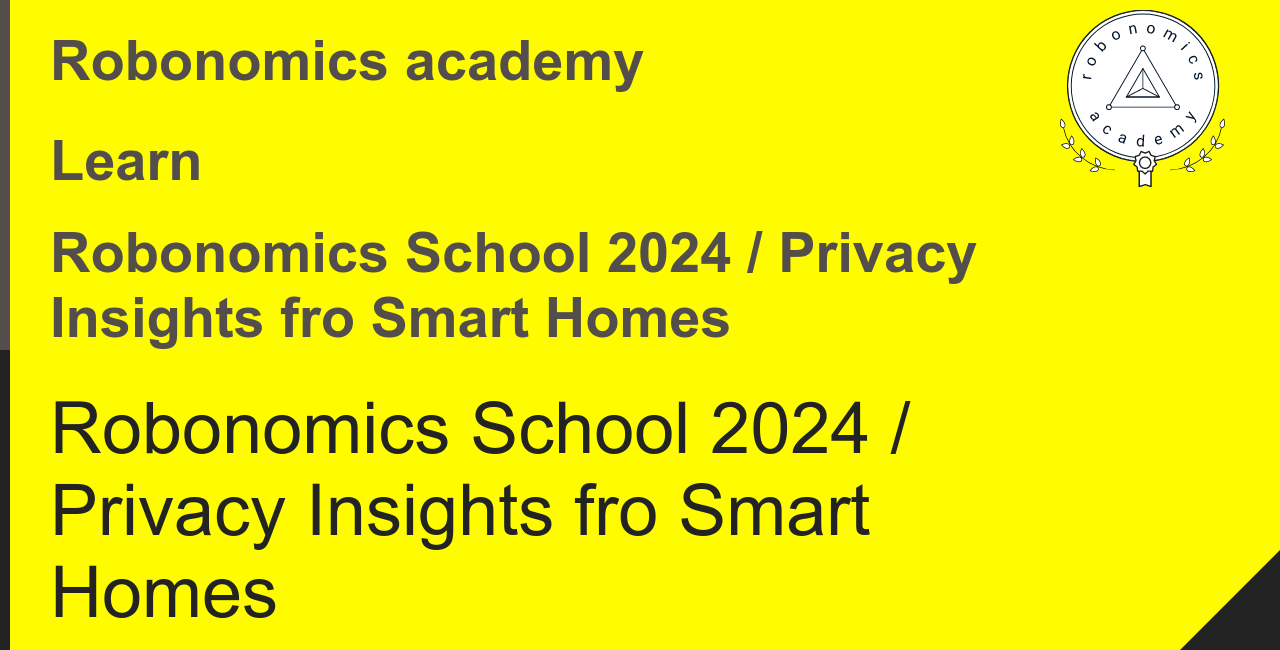
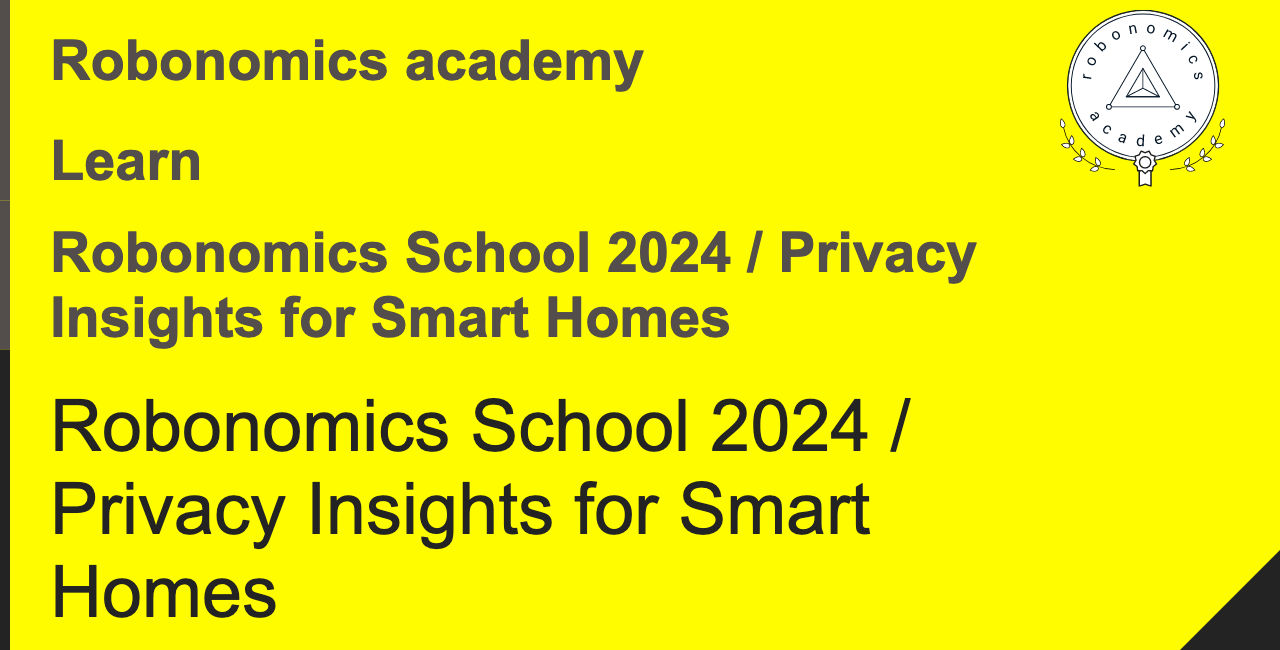
Add School 2024 Cyprus Relocant Manual

diff --git a/courses/ru/learn/school-2024-cyprus-relocant-manual/overview.md b/courses/ru/learn/school-2024-cyprus-relocant-manual/overview.md
@@ -1,0 +1,122 @@
+---
+title: "Robonomics School 2024 / Курс релоканта на Кипр: Умный дом"
+lastUpdate: 
+description: "Курс релоканта на Кипр: Умный дом"
+metaOptions: [Learn, "Robonomics School 2024 / Курс релоканта на Кипр: Умный дом"]
+defaultName: "Robonomics School 2024 / Cyprus Relocant Manual: Smart Home"
+---
+
+<LessonImages imageClasses="mb"  src='school-2024-cyprus-relocant-manual/Setup_SmartHome-Academy.jpg' alt="Cyprus Relocant Manual Cover" />
+
+Изменение страны проживания всегда приносит не только новые возможности, но и вызовы. Так случилось, что в моем случае новой страной стал Кипр, куда я приехал строить компанию. Последние 10 лет до переезда я жил в большом городе, где успел привыкнуть к определенным благам в виде центрального отопления от города, горячего водоснабжения, дешевому электричеству. На Кипре каждый дом и каждая квартира гораздо более автономный в плане жизнеобеспечения, но заботы о поддержании комфортной жизни ложатся на владельца. Взять, например, горячую воду. В холодные месяцы приходится самостоятельно включать бойлер, чтобы её нагреть. Квартиру тоже нужно отапливать самостоятельно. Зимой включаем/выключаем термоодеяло и бойлер, а летом кондиционер и средство от комаров. Это требует не только времени и энергии, но и денег.
+
+Моя первая зима на Кипре вылилась в астрономические счета за электричество. Это был серьезный удар по моему бюджету. Одно из возможных решений: изменить свои привычки и подстроиться под новые условия. Но после переезда у вас и так будет достаточно забот. Будучи инженером, я начал искать решения, которые помогли бы мне контролировать расходы и сделать жизнь комфортнее, и хочу поделиться с вами опытом.
+
+## Выбор оборудования
+
+Первое с чего хочется начать - выбор экосистемы. Проводные системы сразу отпадают, так как требуют больших бюджетов и серьезного вмешательства в инфраструктуру квартиры/дома. Из беспроводных существует огромное количество устройств под брендами Sonoff и Tyua, но все они работают через интернет, который не всегда стабильно работает на острове. Это не говоря уже про вопрос приватности и сохранности ваших персональных данных на чужих серверах. Я рекомендую строить свой умный дом на основе домашнего сервера с [Home Assistant](https://www.home-assistant.io) на борту. Из плюсов: может работать без доступа во внешний интернет; есть возможность забрать с собой при переезде и развернуть на новом месте, не потеряв настройки; поддержка огромного количества устройств, в том числе умные телевизоры, пылесосы, и многое другое.
+
+Самые популярные протоколы беспроводного подключения устройств это Wi-Fi, Zigbee, Bluetooth. В одной квартире могут встретиться все три вида подключения сразу, но что касается устройств, делающих из обычных вещей умные, удобнее работать с протоколом Zigbee. В этом случае нам не нужно заботиться об их адресах и зоне покрытия, плюс они могут работать от батарейки. Wi-Fi устройства требуют постоянного подключения к питанию, и они зависимы от уровня сигнала Wi-Fi. Даже в небольшой квартире, где есть пару стен между роутером и вашей спальней, порой приходится ставить Wi-Fi Extender. В случае с Zigbee, устройства сами выполняют роль ретрансляторов.
+
+Возвращаясь на Кипр, мой необходимый минимум устройств получился следующим:
+
+## Компьютер - домашний сервер
+
+Конечная задача для сервера - это обслуживать умный дом под управлением Home Assistant. Проще всего взять уже преднастроенный [Home Assistant Green](https://www.home-assistant.io/green/). Стоимость [€70 без налога](https://thepihut.com/products/home-assistant-green).
+
+<LessonImages src="school-2024-cyprus-relocant-manual/home-assistant-green.png" alt="Home Assistant green"/>
+
+Вариант чуть продвинутей, но зато можно иметь контроль даже над операционной системой, это найти/купить [Raspberry Pi](https://www.raspberrypi.com). Стоимость [€90 без налога](https://https://thepihut.com/products/raspberry-pi-5-starter-kit). На странице [Installation](https://www.home-assistant.io/installation/) приведено много вариантов на все вкусы.
+
+<LessonImages src="school-2024-cyprus-relocant-manual/raspberry-pi.png" alt="Raspberry Pi"/>
+
+В качестве Zigbee Coordinator берем [Sonoff Zigbee Dongle P или E](https://sonoff.tech/product/gateway-and-sensors/sonoff-zigbee-3-0-usb-dongle-plus-p/), они практически всегда в наличии на острове. Стоимость около [€35](https://www.amazon.de/-/en/dp/B09KXTCMSC/). Так же можно подобрать себе стик из [этого списка](https://www.zigbee2mqtt.io/guide/adapters/).
+
+<LessonImages src="school-2024-cyprus-relocant-manual/sonoff-zigbee-stick.png" alt="Sonoff Zigbee USB Stick"/>
+
+Очень рекомендую закрепить статический локальный IP адрес для домашнего сервера. Если нет возможности попасть в настройки роутера, то дополнительно можно поставить второй роутер (у меня [MikroTik](https://mikrotik.com/product/hap_ax2), примерно [€80](https://www.mstronics.com/c/337_1345_485/networking-devices-routers.html?filter_id=154)), и настроить интернет на нем. Да и вообще всем умным Wi-Fi устройствам лучше закреплять статичный IP. Это зачастую важно для нормальной работы интеграций Home Assistant.
+
+## Бойлерная кнопка
+
+Бойлер потребляет 3-3.5 kWh и обычный умный выключатель не подойдет. При выборе обязательно обращайте внимание на допустимый ток, он должен быть минимум 16А, а лучше 20А. Быстро найти Zigbee выключатель на самом острове сложно, я заказывал из [китая](https://vi.aliexpress.com/item/1005006833309900.html), вышло примерно €20.
+
+<robo-academy-grid :columns="2" textAlign="center">
+    <robo-academy-grid-element>
+        <LessonImages src="school-2024-cyprus-relocant-manual/boiler-switch-dimension.png" alt="Boiler Switch"/>
+    </robo-academy-grid-element>
+    <robo-academy-grid-element>
+        <LessonImages src="school-2024-cyprus-relocant-manual/boiler-switch-wiring.png" alt="Boiler Switch Wiring"/>
+    </robo-academy-grid-element/>
+</robo-academy-grid>
+
+Первая и наиболее важная автоматизация - отключение кнопки через N минут после любого включения. Настраиваем и больше не думаем о том, забыли ли вы выключить кнопку или она уже третий день работает. Пример автоматизации для Home Assistant, нужно заменить на свои `device_id` и `entity_id`:
+
+<LessonCodeWrapper language="yaml" noCopyIcon>
+    alias: Boiler turn off after 30 min
+    description: ""
+    trigger:
+    - platform: device
+        type: turned_on
+        device_id: a7ee4b26ec5b9e36d959f7b4b8490c42
+        entity_id: 61230c7b5528330e3b60ee38c5fe1f12
+        domain: switch
+        for:
+        hours: 0
+        minutes: 30
+        seconds: 0
+    condition: []
+    action:
+    - type: turn_off
+        device_id: a7ee4b26ec5b9e36d959f7b4b8490c42
+        entity_id: 61230c7b5528330e3b60ee38c5fe1f12
+        domain: switch
+    mode: single
+</LessonCodeWrapper>
+
+В течение года можно менять время. Например, в феврале мне нужно греть воду час, а в апреле достаточно 30 мин. Из полезного, стоит добавить отправку уведомления на телефон, когда вода нагрелась.
+
+
+<robo-academy-note type="note" title="Домашнее задание">
+  Сделать автоматизацию, которая будет выключать бойлер через заданные Х минут. Чтобы задать время как переменную, посмотрите на <a href="https://www.home-assistant.io/integrations/input_number/">эту интеграцию</a>
+</robo-academy-note>
+
+## ИК пульты для кондиционеров и ТВ
+
+Пульты бывают с подключением по Wi-Fi (требуют постоянного питания) и по Zigbee (работают от батарейки).
+
+Wi-Fi вариант, испробованный мной, от производителя [Broadlink](https://www.ibroadlink.com/productinfo/762674.html), покупал на [Amazon](https://www.amazon.de/-/en/dp/B07ZSG9Y67/), около €30. Для первоначальной настройки придется установить себе их приложение на телефон и создать аккаунт, но после этого ИК пульт будет работать в локальной сети, подключение к HA выполняется с помощью [интеграции](https://www.home-assistant.io/integrations/broadlink/). Для дальнейшей настройки пульта под ваши нужды рекомендую посмотреть на репозиторий [SmartIR](https://github.com/smartHomeHub/SmartIR) - это большая библиотека уже готовых команд для разных кондиционеров и ТВ.
+
+<robo-academy-note type="note" title="Совет">
+  Если не нашлось конкретно вашей модели кондиционера, попробуйте другие модели от того же производителя. Вероятно, команды будут те же самые и вы сможете подключить свой кондиционер.
+</robo-academy-note>
+
+<LessonImages src="school-2024-cyprus-relocant-manual/broadlink-ir.png" alt="Broadlink IR Remote Control"/>
+
+Пример конфигурации для Broadlink IR Remote:
+
+<LessonCodeWrapper language="yaml" noCopyIcon>
+    climate:
+    - platform: smartir
+        name: Living Room AC
+        unique_id: living_room_ac
+        device_code: 1390
+        controller_data: remote.living_room_ir_remote_control
+        temperature_sensor: sensor.0xa4c138b6ad623598_temperature
+        humidity_sensor: sensor.0xa4c138b6ad623598_humidity 
+</LessonCodeWrapper>
+
+Пульты, работающие на Zigbee, не требуют постоянного подключения к питанию, а работают от батареек. С одной стороны, это плюс, т.к. можно разместить устройство в любом удобном месте комнаты. С другой, батарейки нужно будет менять по мере необходимости. Процесс настройки таких пультов тоже может отличаться от Broadlink. Если не получится воспользоваться библиотекой SmartIR, то пульт нужно будет обучить каждой команде отдельно и сохранить в конфигурации Home Assistant.
+
+Программируемые пульты очень просты в установке и настройке, не требуют монтажа на стену или подключению к шине кондиционера. Однако, есть небольшое ограничение, связанное с отсутствием обратной связи между устройствами. Мы не можем проверить, что кондиционер включился и исполняет именно ту команду, которую мы отправили. Однако мы же делаем быстро и без ущерба для квартиры. Чтобы дать немного больше информации пульту, можно установить любой Zigbee датчик температуры и влажности, например [такой](https://vi.aliexpress.com/item/1005005595631552.html) за €10, и привязать показания к пульту. Таким образом у нас появляется простая обратная связь, а количество интересных сценариев увеличивается.
+
+## Электромониторинг
+
+Существуют полуинвазивные измерители потребленного электричества, такие как на изображении ниже:
+
+<LessonImages src="school-2024-cyprus-relocant-manual/energy-meter.png" alt="Energy Meter"/>
+
+Их необходимо запитать, подав L и N на вход. С другой стороны к измерителю подключается индукционное кольцо, которое вешаем на фазу или линию потребления для измерения. В большинстве домов и квартир заходит 3 фазы, значит нужно установить 3 таких модуля. Покупал на [Amazon](https://www.amazon.de/gp/product/B0C37DJXVD/) по €60, по одному на каждую из фаз. В более старых домах может встречаться всего одна фаза.
+
+## Заключение
+
+Для меня умный дом — это не роскошь, а необходимость. Это место, где я хочу отдыхать и проводить время с семьей, не тратя силы на решение бытовых вопросов. Стоимость вышеописанного комплекта в моем случае составила около €500 и пару вечеров. Результат - неоценим!

diff --git a/courses/en/learn/school-2024-cyprus-relocant-manual/overview.md b/courses/en/learn/school-2024-cyprus-relocant-manual/overview.md
@@ -1,0 +1,121 @@
+---
+title: "Robonomics School 2024 / Cyprus Relocant Manual: Smart Home"
+lastUpdate: 
+description: "Cyprus Relocant Manual: Smart Home"
+metaOptions: [Learn, "Robonomics School 2024 / Cyprus Relocant Manual: Smart Home"]
+defaultName: "Robonomics School 2024 / Cyprus Relocant Manual: Smart Home"
+---
+
+<LessonImages imageClasses="mb"  src='school-2024-cyprus-relocant-manual/Setup_SmartHome-Academy.jpg' alt="Cyprus Relocant Manual Cover" />
+
+Changing your country of residence always brings not only new opportunities, but also challenges. It so happened that in my case, the new country was Cyprus, where I came to build a company. For the last 10 years before moving, I lived in a big city, where I get used to certain benefits in the form of central heating from the city, hot water supply, and cheap electricity. In Cyprus, each house and each apartment is much more autonomous in terms of life support, but concerns about maintaining a comfortable life fall on the owner. Take hot water, for example. In the cold months, you have to turn on the boiler yourself to heat it up. The apartment also needs to be heated by yourself. In winter we turn on/off the thermal blanket and boiler, and in summer the air conditioner and mosquito repellent. This requires not only time and energy, but also money.
+
+My first winter in Cyprus resulted in astronomical electricity bills. This was a serious blow to my budget. One possible solution: change your habits and adapt to new conditions. But after moving, you will already have enough worries. As an engineer, I started looking for solutions that would help me control costs and make my life more comfortable, and I want to share my experience with you.
+
+## Hardware Choosing
+
+The first thing I want to start with is choosing an ecosystem. Wired systems are immediately eliminated, as they require large budgets and serious intervention in the infrastructure of the apartment/house. Of the wireless devices, there are a huge number of devices under the Sonoff and Tyua brands, but they all work via the Internet, which does not always work reliably on the island. This is not to mention the issue of privacy and safety of your personal data on other company’s servers. I recommend building your smart home with [Home Assistant](https://www.home-assistant.io) as a main home server. Pros: can work without access to the external Internet; it is possible to take it with you when moving and deploy it in a new place without losing the settings; supports a huge number of devices, including smart TVs, vacuum cleaners, and much more.
+
+The most popular protocols for wireless connection of devices are Wi-Fi, Zigbee, Bluetooth. In one apartment, all three types of connections can be found at once, but as for devices that make smart things out of ordinary things, it is more convenient to work with the Zigbee protocol. In this case, we do not need to worry about their addresses and coverage area, plus they can be battery operated. Wi-Fi devices require a constant connection to power and are dependent on the strength of the Wi-Fi signal. Even in a small apartment, where there are a couple of walls between the router and your bedroom, sometimes you have to install a Wi-Fi Extender. In the case of Zigbee, the devices themselves act as repeaters.
+
+Returning to Cyprus, my required minimum of devices turned out to be as follows:
+
+## Computer - Home Server
+
+The ultimate task for the server is to serve a smart home controlled by Home Assistant. The easiest way is to take the already preconfigured [Home Assistant Green](https://www.home-assistant.io/green/). Cost [€70 excluding tax](https://thepihut.com/products/home-assistant-green).
+
+<LessonImages src="school-2024-cyprus-relocant-manual/home-assistant-green.png" alt="Home Assistant green"/>
+
+The option is a little more advanced, but you can even have control over the operating system, this is to find/buy [Raspberry Pi](https://www.raspberrypi.com). Cost [€90 excluding tax](https://https://thepihut.com/products/raspberry-pi-5-starter-kit). The [Installation](https://www.home-assistant.io/installation/) page has many options to suit all tastes.
+
+<LessonImages src="school-2024-cyprus-relocant-manual/raspberry-pi.png" alt="Raspberry Pi"/>
+
+As a Zigbee Coordinator we take [Sonoff Zigbee Dongle P or E](https://sonoff.tech/product/gateway-and-sensors/sonoff-zigbee-3-0-usb-dongle-plus-p/), they are practically always available on the island. Cost about [€35](https://www.amazon.de/-/en/dp/B09KXTCMSC/). You can also choose a stick from [this list](https://www.zigbee2mqtt.io/guide/adapters/).
+
+<LessonImages src="school-2024-cyprus-relocant-manual/sonoff-zigbee-stick.png" alt="Sonoff Zigbee USB Stick"/>
+
+I highly recommend assigning a static local IP address for your home server. If it is not possible to get into the router settings, then you can additionally install a second router (I have [MikroTik](https://mikrotik.com/product/hap_ax2), approximately [€80](https://www.mstronics.com/c/337_1345_485/networking-devices-routers.html?filter_id=154)), and configure the Internet on it. And in general, it is better for all smart Wi-Fi devices to assign a static IP. This is often important for Home Assistant integrations to work properly.
+
+## Boiler Switch
+
+The boiler consumes 3-3.5 kWh and a regular smart switch will not work. When choosing, be sure to pay attention to the permissible current; it should be at least 16A, and preferably 20A. It’s difficult to quickly find a Zigbee switch on the island itself, I ordered from [China](https://vi.aliexpress.com/item/1005006833309900.html), it cost about €20.
+
+<robo-academy-grid :columns="2" textAlign="center">
+    <robo-academy-grid-element>
+      <LessonImages src="school-2024-cyprus-relocant-manual/boiler-switch-dimension.png" alt="Boiler Switch"/>
+    </robo-academy-grid-element>
+    <robo-academy-grid-element>
+      <LessonImages src="school-2024-cyprus-relocant-manual/boiler-switch-wiring.png" alt="Boiler Switch Wiring"/>
+    </robo-academy-grid-element/>
+</robo-academy-grid>
+
+The first and most important automation is to turn off the button N minutes after any activation. We set it up and no longer think about whether you forgot to turn off the button or whether it has been working for the third day. An example of automation for Home Assistant, you need to replace it with your `device_id` and `entity_id`:
+
+<LessonCodeWrapper language="yaml" noCopyIcon>
+    alias: Boiler turn off after 30 min
+    description: ""
+    trigger:
+    - platform: device
+        type: turned_on
+        device_id: a7ee4b26ec5b9e36d959f7b4b8490c42
+        entity_id: 61230c7b5528330e3b60ee38c5fe1f12
+        domain: switch
+        for:
+        hours: 0
+        minutes: 30
+        seconds: 0
+    condition: []
+    action:
+    - type: turn_off
+        device_id: a7ee4b26ec5b9e36d959f7b4b8490c42
+        entity_id: 61230c7b5528330e3b60ee38c5fe1f12
+        domain: switch
+    mode: single
+</LessonCodeWrapper>
+
+You can change the time throughout the year. For example, in February I need to heat the water for an hour, and in April 30 minutes is enough. Something useful is to add sending a notification to your phone when the water is heated.
+
+<robo-academy-note type="note" title="Homework">
+  Make an automation that will turn off the boiler after a specified X minutes. To set time as a variable, look at <a href="https://www.home-assistant.io/integrations/input_number/">this integration</a>
+</robo-academy-note>
+
+## IR Remote Controls for Air Conditioners and TV
+
+Remote controls come with Wi-Fi connection (require constant power) and Zigbee connection (battery operated).
+
+The Wi-Fi option I tried was from the manufacturer [Broadlink](https://www.ibroadlink.com/productinfo/762674.html), bought on [Amazon](https://www.amazon.de/-/en/dp/B07ZSG9Y67/), about €30. For the initial setup, you will have to install their application on your phone and create an account, but after that the IR remote control will work on the local network, connecting to HA is done using [integration](https://www.home-assistant.io/integrations/broadlink/). To further customize the remote control to suit your needs, I recommend looking at the [SmartIR](https://github.com/smartHomeHub/SmartIR) repository - this is a large library of ready-made commands for different air conditioners and TVs.
+
+<robo-academy-note type="note" title="Tip">
+  If your specific A/C model is not found, try other models from the same manufacturer. The commands will probably be the same and you will be able to connect your A/C.
+</robo-academy-note>
+
+<LessonImages src="school-2024-cyprus-relocant-manual/broadlink-ir.png" alt="Broadlink IR Remote Control"/>
+
+Example configuration for Broadlink IR Remote:
+
+<LessonCodeWrapper language="yaml" noCopyIcon>
+    climate:
+    - platform: smartir
+        name: Living Room AC
+        unique_id: living_room_ac
+        device_code: 1390
+        controller_data: remote.living_room_ir_remote_control
+        temperature_sensor: sensor.0xa4c138b6ad623598_temperature
+        humidity_sensor: sensor.0xa4c138b6ad623598_humidity 
+</LessonCodeWrapper>
+
+Remote controls running on Zigbee do not require a constant connection to power, but run on batteries. On the one hand, this is a plus, because you can place the device in any convenient place in the room. On the other hand, the batteries will need to be changed as needed. The setup process for such remote controls may also differ from Broadlink. If you can’t use the SmartIR library, the remote control will need to be trained for each command separately and saved in the Home Assistant configuration.
+
+Programmable remote controls are very easy to install and configure; they do not require wall mounting or connection to an air conditioner bus. However, there is a slight limitation due to the lack of feedback between devices. We cannot verify that the A/C has turned on and is executing exactly the command that we sent. However, we do it quickly and without damage to the apartment. To give a little more information to the remote control, you can install any Zigbee temperature and humidity sensor, for example [this one](https://vi.aliexpress.com/item/1005005595631552.html) for €10, and link the readings to the remote control. This way we have simple feedback, and the number of interesting scenarios increases.
+
+## Energy Meter
+
+There are semi-invasive meters for electricity consumption, such as the one in the image below:
+
+<LessonImages src="school-2024-cyprus-relocant-manual/energy-meter.png" alt="Energy Meter"/>
+
+They must be powered by applying L and N to the input. On the other side, an induction ring is connected to the meter, which we hang on a phase or consumption line for measurement. Most houses and apartments have 3 phases, which means you need to install 3 such modules. I bought it on [Amazon](https://www.amazon.de/gp/product/B0C37DJXVD/) for €60, one for each phase. Older homes may only have one phase.
+
+## Conclusion
+
+For me, a smart home is not a luxury, but a necessity. This is a place where I want to relax and spend time with my family, without wasting energy on solving everyday issues. The cost of the above kit in my case was about €500 and a couple of evenings. The result is invaluable!
